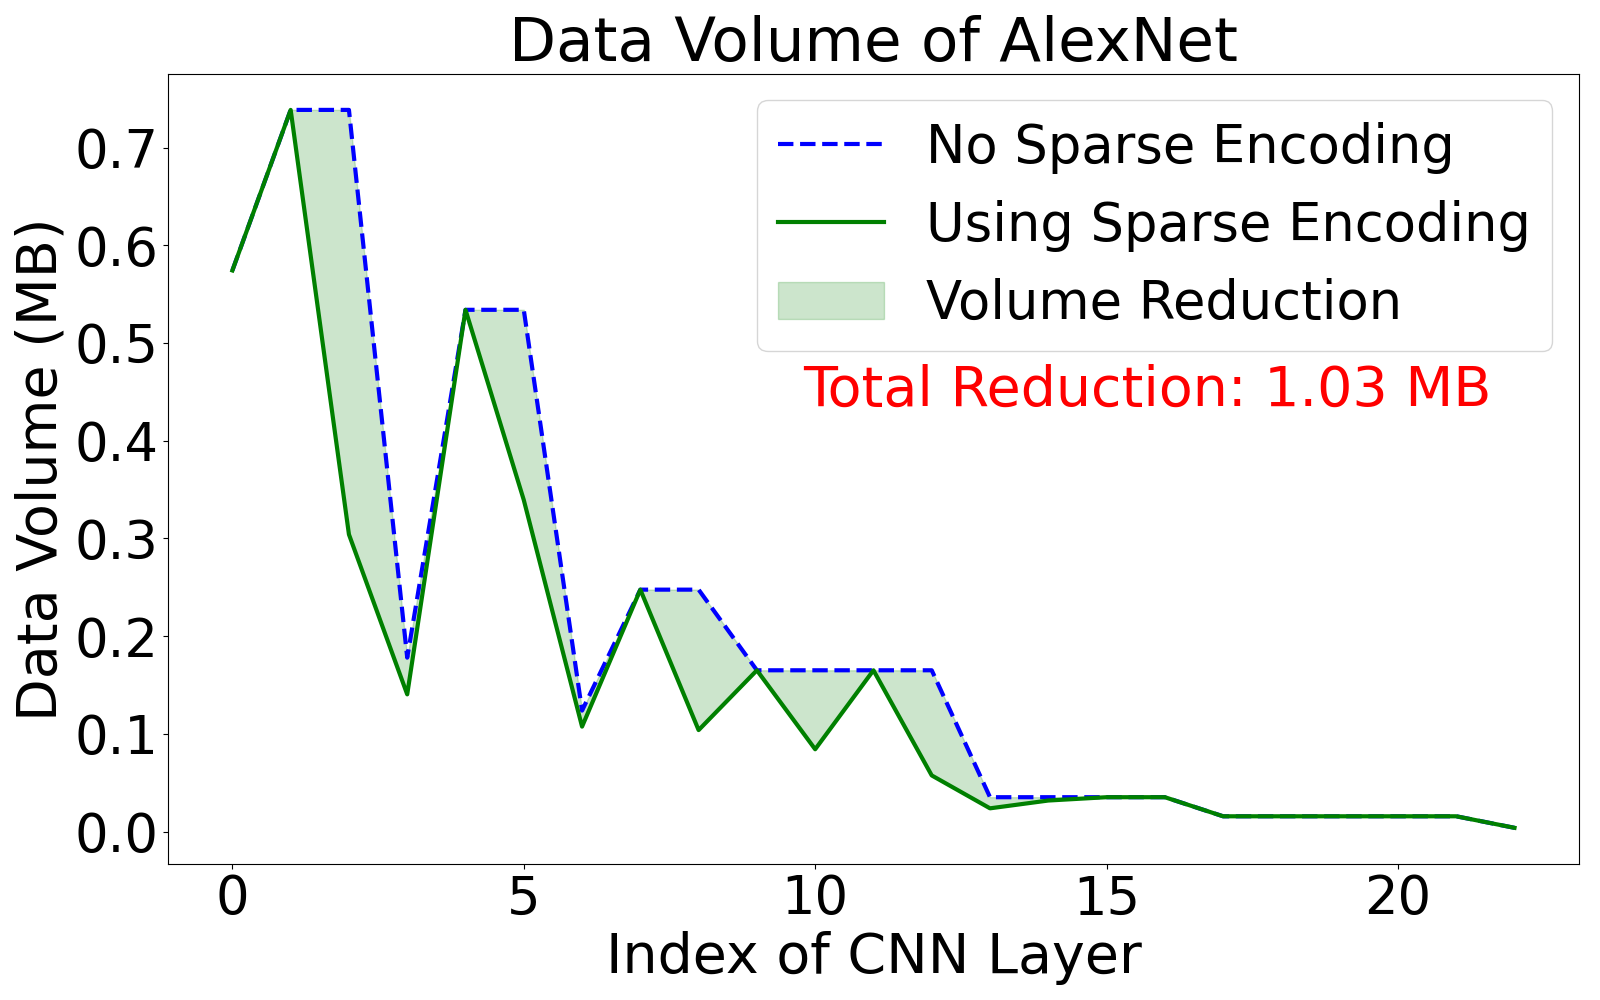
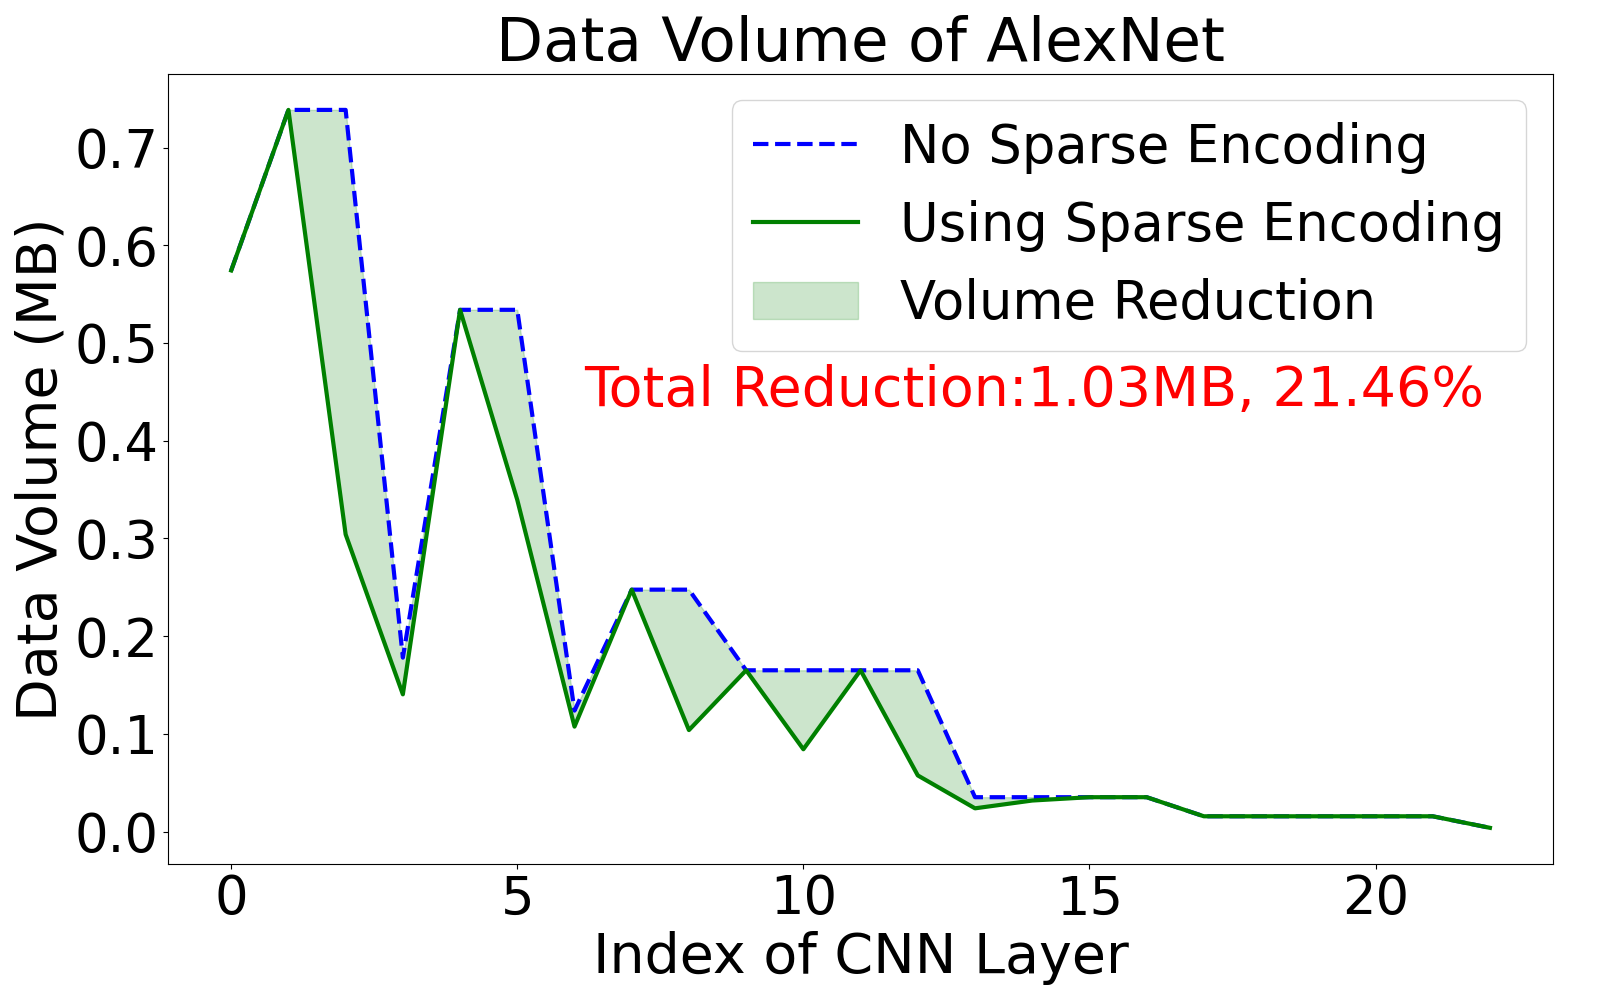
update for total_reduction_rate

diff --git a/feature_data_volume/feature_trans_red.py b/feature_data_volume/feature_trans_red.py
@@ -80,6 +80,7 @@ def plot_results(layer_indices, original_volumes, compressed_volumes, title):
     # 计算体积减少量
     volume_reduction = original_volumes - compressed_volumes
     total_reduction = np.sum(volume_reduction)  # 总体积减少量
+    total_reduction_rate = total_reduction / np.sum(original_volumes) *100 # 总体积减少率
 
     # 绘制图像
     plt.figure(figsize=(16, 10))  # 调整图像大小
@@ -88,7 +89,7 @@ def plot_results(layer_indices, original_volumes, compressed_volumes, title):
     plt.fill_between(layer_indices, compressed_volumes, original_volumes, color='green', alpha=0.2, label='Volume Reduction')
 
     # 在图像中显示总减少量
-    plt.text(0.45, 0.58, f'Total Reduction: {total_reduction:.2f} MB', transform=plt.gca().transAxes, fontsize=40, color='red')
+    plt.text(0.3, 0.58, f'Total Reduction:{total_reduction:.2f}MB, {total_reduction_rate:.2f}%', transform=plt.gca().transAxes, fontsize=40, color='red')
 
     # 设置标题和轴标签字体大小
     plt.title(f'Data Volume of {CNN_NAME}', fontsize=44)
@@ -108,7 +109,7 @@ def plot_results(layer_indices, original_volumes, compressed_volumes, title):
 
 if __name__ == '__main__':
     # 加载数据
-    CNN_NAME = 'VGG'  # 可选：AlexNet, VGG
+    CNN_NAME = 'AlexNet'  # 可选：AlexNet, VGG
     VIDEO_NAME = 'parking'
     RESOLUTION = '480x720'
     NFRAME_TOTAL = 400
